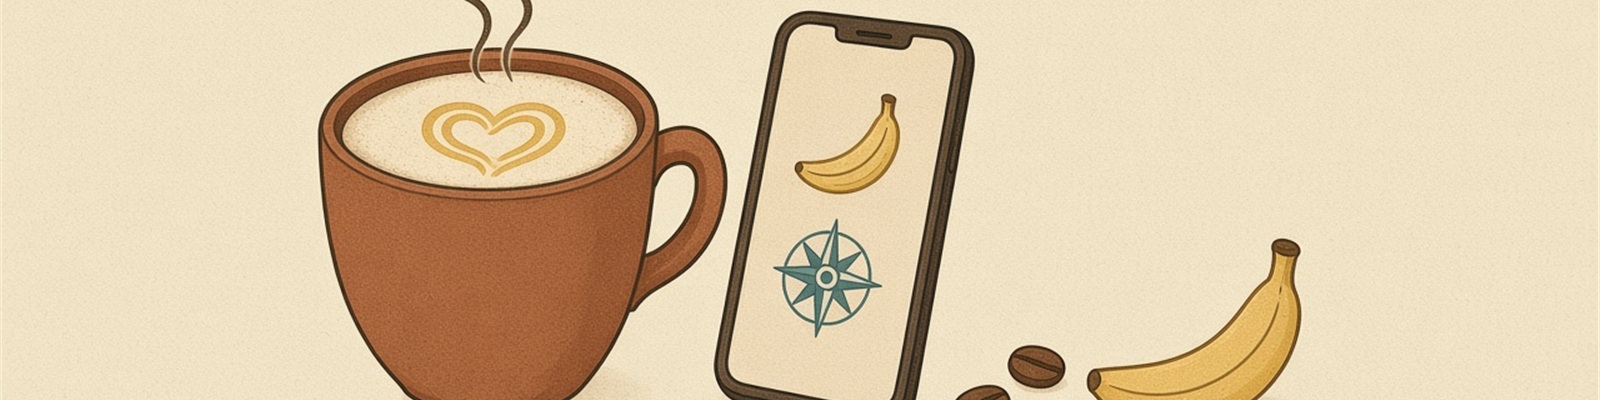
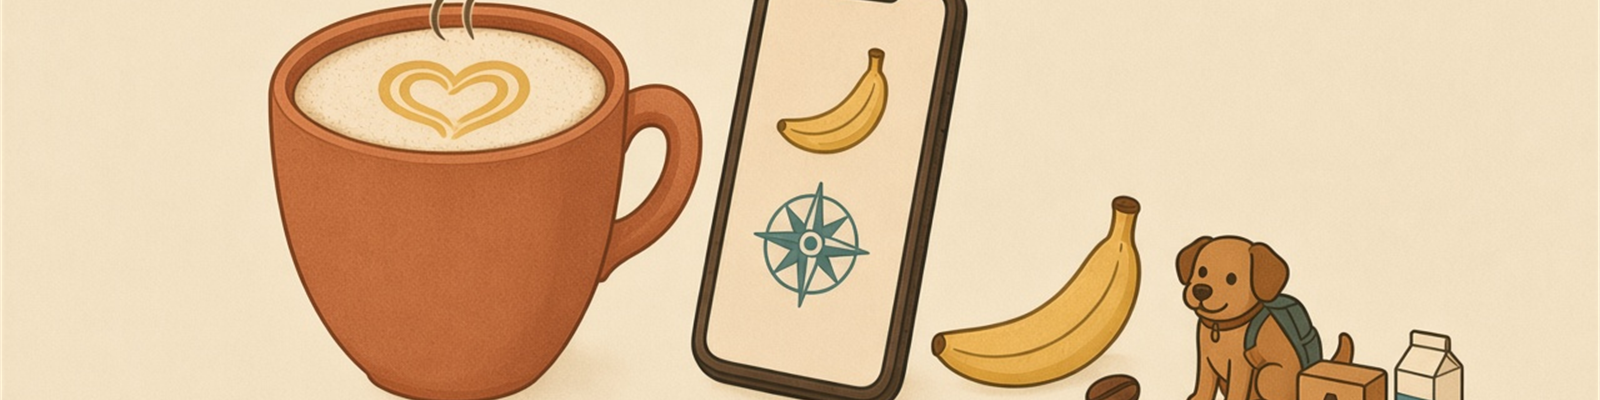
Add StoreAlfabet to the portal and refresh the Buy Me a Coffee cover.

Changed region(s): [[0.1562, 0.0, 0.9375, 1.0]]

diff --git a/assets/i18n.js b/assets/i18n.js
@@ -20,20 +20,26 @@ const translations = {
   no: {
     metaTitle: "Reidar Kind — hobbyapper",
     metaDescription:
-      "Oversikt over hobbyappene Bananmatte og FactHunter. Alt lagres på telefonen. Bruk på eget ansvar.",
+      "Oversikt over hobbyappene Bananmatte, StoreAlfabet og FactHunter. Alt lagres på telefonen. Bruk på eget ansvar.",
     skip: "Hopp til innhold",
     brand: "Reidar Kind",
     tagline: "Hobbyapper som bor på telefonen din.",
     langLabel: "Språk",
     appsTitle: "Appene",
     appsIntro:
-      "To apper så langt. Begge åpnes i nettleseren og kan legges på hjemskjermen. Ingen appbutikk, ingen konto.",
+      "Tre apper så langt. Alle åpnes i nettleseren og kan legges på hjemskjermen. Ingen appbutikk, ingen konto.",
     "bananmatte.name": "Bananmatte",
     "bananmatte.devices": "Nettbrett og telefon",
     "bananmatte.lead": "Gjør apestreker. Regn etterpå.",
     "bananmatte.body":
       "Matte- og fangstspill for 1. og 2. klasse. Du styrer en gorilla med kurv, fanger bananer og svarer på et mattespørsmål etter hver runde. Tiervenn, pluss, minus, ganging, deling og mer. Poeng og navn blir på enheten.",
     "bananmatte.cta": "Åpne Bananmatte",
+    "storealfabet.name": "StoreAlfabet",
+    "storealfabet.devices": "Telefon",
+    "storealfabet.lead": "Alf har forsovet seg!",
+    "storealfabet.body":
+      "Bokstavspill for 1. og 2. klasse. Du hjelper hunden Alf til skolen, øver på bokstaver, lyder, rim og små ord, samler krystaller og diamanter, og unngår tullete bokstavzombier. Målet er å rekke skolen og kjøpe skolemelk. Rekorder blir på telefonen.",
+    "storealfabet.cta": "Åpne StoreAlfabet",
     "facthunter.name": "FactHunter",
     "facthunter.devices": "Telefon",
     "facthunter.lead": "Speid kartet etter kunnskap i det fjerne.",
@@ -42,7 +48,7 @@ const translations = {
     "facthunter.cta": "Åpne FactHunter",
     madeTitle: "Slik er de laget",
     madeBody:
-      "Enkle webapper (PWA) som kjører i nettleseren og kan installeres på hjemskjermen. De er bygget med Vite og TypeScript og ligger på GitHub Pages. Ingen egen server, ingen innlogging. Bananmatte lagrer innstillinger og rekorder i localStorage. FactHunter lagrer samlingen i IndexedDB. FactHunter henter lesende oppslag fra Wikipedia; ingenting sendes til meg.",
+      "Enkle webapper (PWA) som kjører i nettleseren og kan installeres på hjemskjermen. De er bygget med Vite og TypeScript og ligger på GitHub Pages. Ingen egen server, ingen innlogging. Bananmatte og StoreAlfabet lagrer innstillinger og rekorder i localStorage. FactHunter lagrer samlingen i IndexedDB. FactHunter henter lesende oppslag fra Wikipedia; ingenting sendes til meg.",
     privacyTitle: "Personvern",
     privacyBody:
       "Alt som hører til deg, blir på telefonen. Ingen konto, ingen sky, ingen analyse og ingen sporing. Mister du telefonen, sletter nettstedsdata eller bytter nettleser uten eksport, er det som var lagret borte.",
@@ -58,20 +64,26 @@ const translations = {
   en: {
     metaTitle: "Reidar Kind — hobby apps",
     metaDescription:
-      "A portal to the hobby apps Bananmatte and FactHunter. Everything stays on your phone. Use at your own risk.",
+      "A portal to the hobby apps Bananmatte, StoreAlfabet and FactHunter. Everything stays on your phone. Use at your own risk.",
     skip: "Skip to content",
     brand: "Reidar Kind",
     tagline: "Hobby apps that live on your phone.",
     langLabel: "Language",
     appsTitle: "The apps",
     appsIntro:
-      "Two so far. Both open in the browser and can be added to your home screen. No app store, no account.",
+      "Three so far. All open in the browser and can be added to your home screen. No app store, no account.",
     "bananmatte.name": "Bananmatte",
     "bananmatte.devices": "Tablets and phones",
     "bananmatte.lead": "Monkey around. Then do the maths.",
     "bananmatte.body":
       "A catch-and-count game for years 1 and 2. Steer a gorilla with a basket, catch bananas, and answer a maths question after each round. Number bonds, plus, minus, times, divide, and more. Scores and names stay on the device.",
     "bananmatte.cta": "Open Bananmatte",
+    "storealfabet.name": "StoreAlfabet",
+    "storealfabet.devices": "Phones",
+    "storealfabet.lead": "Alf overslept!",
+    "storealfabet.body":
+      "A letter game for years 1 and 2. You help the dog Alf get to school, practise letters, sounds, rhymes and small words, collect crystals and diamonds, and dodge silly letter zombies. The goal is to reach school and buy school milk. Records stay on the phone.",
+    "storealfabet.cta": "Open StoreAlfabet",
     "facthunter.name": "FactHunter",
     "facthunter.devices": "Phones",
     "facthunter.lead": "Scout the map for knowledge in the distance.",
@@ -80,7 +92,7 @@ const translations = {
     "facthunter.cta": "Open FactHunter",
     madeTitle: "How they are made",
     madeBody:
-      "Simple web apps (PWAs) that run in the browser and can be installed on the home screen. They are built with Vite and TypeScript and hosted on GitHub Pages. No server of my own, no login. Bananmatte keeps settings and high scores in localStorage. FactHunter keeps the collection in IndexedDB. FactHunter only reads from Wikipedia; nothing is sent to me.",
+      "Simple web apps (PWAs) that run in the browser and can be installed on the home screen. They are built with Vite and TypeScript and hosted on GitHub Pages. No server of my own, no login. Bananmatte and StoreAlfabet keep settings and high scores in localStorage. FactHunter keeps the collection in IndexedDB. FactHunter only reads from Wikipedia; nothing is sent to me.",
     privacyTitle: "Privacy",
     privacyBody:
       "What is yours stays on the phone. No account, no cloud, no analytics, no tracking. If you lose the phone, clear site data, or switch browsers without an export, what was stored is gone.",
@@ -96,20 +108,26 @@ const translations = {
   de: {
     metaTitle: "Reidar Kind — Hobby-Apps",
     metaDescription:
-      "Überblick über die Hobby-Apps Bananmatte und FactHunter. Alles bleibt auf dem Telefon. Nutzung auf eigene Gefahr.",
+      "Überblick über die Hobby-Apps Bananmatte, StoreAlfabet und FactHunter. Alles bleibt auf dem Telefon. Nutzung auf eigene Gefahr.",
     skip: "Zum Inhalt springen",
     brand: "Reidar Kind",
     tagline: "Hobby-Apps, die auf deinem Telefon leben.",
     langLabel: "Sprache",
     appsTitle: "Die Apps",
     appsIntro:
-      "Zwei bisher. Beide öffnen sich im Browser und können auf den Startbildschirm. Kein App-Store, kein Konto.",
+      "Drei bisher. Alle öffnen sich im Browser und können auf den Startbildschirm. Kein App-Store, kein Konto.",
     "bananmatte.name": "Bananmatte",
     "bananmatte.devices": "Tablets und Telefone",
     "bananmatte.lead": "Affenstreiche machen. Danach rechnen.",
     "bananmatte.body":
       "Fang- und Rechenspiel für die 1. und 2. Klasse. Du steuerst einen Gorilla mit Korb, fängst Bananen und beantwortest nach jeder Runde eine Mathefrage. Zehnerfreunde, Plus, Minus, Mal, Geteilt und mehr. Punkte und Namen bleiben auf dem Gerät.",
     "bananmatte.cta": "Bananmatte öffnen",
+    "storealfabet.name": "StoreAlfabet",
+    "storealfabet.devices": "Telefone",
+    "storealfabet.lead": "Alf hat verschlafen!",
+    "storealfabet.body":
+      "Buchstabenspiel für die 1. und 2. Klasse. Du hilfst dem Hund Alf zur Schule, übst Buchstaben, Laute, Reime und kleine Wörter, sammelst Kristalle und Diamanten und weichst albernen Buchstaben-Zombies aus. Ziel ist die Schule und die Schulmilch. Rekorde bleiben auf dem Telefon.",
+    "storealfabet.cta": "StoreAlfabet öffnen",
     "facthunter.name": "FactHunter",
     "facthunter.devices": "Telefone",
     "facthunter.lead": "Spähe auf der Karte nach Wissen in der Ferne.",
@@ -118,7 +136,7 @@ const translations = {
     "facthunter.cta": "FactHunter öffnen",
     madeTitle: "So sind sie gemacht",
     madeBody:
-      "Einfache Web-Apps (PWA), die im Browser laufen und auf den Startbildschirm können. Gebaut mit Vite und TypeScript, bereitgestellt über GitHub Pages. Kein eigener Server, keine Anmeldung. Bananmatte speichert Einstellungen und Rekorde in localStorage. FactHunter speichert die Sammlung in IndexedDB. FactHunter liest nur von Wikipedia; nichts wird an mich gesendet.",
+      "Einfache Web-Apps (PWA), die im Browser laufen und auf den Startbildschirm können. Gebaut mit Vite und TypeScript, bereitgestellt über GitHub Pages. Kein eigener Server, keine Anmeldung. Bananmatte und StoreAlfabet speichern Einstellungen und Rekorde in localStorage. FactHunter speichert die Sammlung in IndexedDB. FactHunter liest nur von Wikipedia; nichts wird an mich gesendet.",
     privacyTitle: "Datenschutz",
     privacyBody:
       "Was dir gehört, bleibt auf dem Telefon. Kein Konto, keine Cloud, keine Analyse, keine Verfolgung. Verlierst du das Telefon, löschst Website-Daten oder wechselst den Browser ohne Export, ist das Gespeicherte weg.",
@@ -134,20 +152,26 @@ const translations = {
   es: {
     metaTitle: "Reidar Kind — apps de hobby",
     metaDescription:
-      "Portal de las apps de hobby Bananmatte y FactHunter. Todo se guarda en el teléfono. Úsalas bajo tu responsabilidad.",
+      "Portal de las apps de hobby Bananmatte, StoreAlfabet y FactHunter. Todo se guarda en el teléfono. Úsalas bajo tu responsabilidad.",
     skip: "Saltar al contenido",
     brand: "Reidar Kind",
     tagline: "Apps de hobby que viven en tu teléfono.",
     langLabel: "Idioma",
     appsTitle: "Las apps",
     appsIntro:
-      "Dos por ahora. Las dos se abren en el navegador y se pueden añadir a la pantalla de inicio. Sin tienda, sin cuenta.",
+      "Tres por ahora. Las tres se abren en el navegador y se pueden añadir a la pantalla de inicio. Sin tienda, sin cuenta.",
     "bananmatte.name": "Bananmatte",
     "bananmatte.devices": "Tabletas y teléfonos",
     "bananmatte.lead": "Haz travesuras. Luego calcula.",
     "bananmatte.body":
       "Juego de captura y mates para 1.º y 2.º. Diriges un gorila con cesta, cazas plátanos y respondes una pregunta de mates tras cada ronda. Complementos a diez, sumas, restas, multiplicar, dividir y más. Puntos y nombres se quedan en el aparato.",
     "bananmatte.cta": "Abrir Bananmatte",
+    "storealfabet.name": "StoreAlfabet",
+    "storealfabet.devices": "Teléfonos",
+    "storealfabet.lead": "¡Alf se ha quedado dormido!",
+    "storealfabet.body":
+      "Juego de letras para 1.º y 2.º. Ayudas al perro Alf a llegar al cole, practicas letras, sonidos, rimas y palabras cortas, recoges cristales y diamantes y esquivas zombis de letras un poco tontos. El objetivo es llegar y comprar la leche escolar. Los récords se quedan en el teléfono.",
+    "storealfabet.cta": "Abrir StoreAlfabet",
     "facthunter.name": "FactHunter",
     "facthunter.devices": "Teléfonos",
     "facthunter.lead": "Explora el mapa en busca de saber a lo lejos.",
@@ -156,7 +180,7 @@ const translations = {
     "facthunter.cta": "Abrir FactHunter",
     madeTitle: "Cómo están hechas",
     madeBody:
-      "Apps web sencillas (PWA) que corren en el navegador y se pueden instalar en la pantalla de inicio. Están hechas con Vite y TypeScript y alojadas en GitHub Pages. Sin servidor propio, sin inicio de sesión. Bananmatte guarda ajustes y récords en localStorage. FactHunter guarda la colección en IndexedDB. FactHunter solo lee de Wikipedia; no se me envía nada.",
+      "Apps web sencillas (PWA) que corren en el navegador y se pueden instalar en la pantalla de inicio. Están hechas con Vite y TypeScript y alojadas en GitHub Pages. Sin servidor propio, sin inicio de sesión. Bananmatte y StoreAlfabet guardan ajustes y récords en localStorage. FactHunter guarda la colección en IndexedDB. FactHunter solo lee de Wikipedia; no se me envía nada.",
     privacyTitle: "Privacidad",
     privacyBody:
       "Lo tuyo se queda en el teléfono. Sin cuenta, sin nube, sin analítica y sin rastreo. Si pierdes el teléfono, borras los datos del sitio o cambias de navegador sin exportar, lo guardado desaparece.",
@@ -172,20 +196,26 @@ const translations = {
   pt: {
     metaTitle: "Reidar Kind — apps de hobby",
     metaDescription:
-      "Portal das apps de hobby Bananmatte e FactHunter. Tudo fica no telemóvel. Use por sua conta e risco.",
+      "Portal das apps de hobby Bananmatte, StoreAlfabet e FactHunter. Tudo fica no telemóvel. Use por sua conta e risco.",
     skip: "Saltar para o conteúdo",
     brand: "Reidar Kind",
     tagline: "Apps de hobby que vivem no teu telemóvel.",
     langLabel: "Idioma",
     appsTitle: "As apps",
     appsIntro:
-      "Duas por agora. Ambas abrem no browser e podem ir para o ecrã inicial. Sem loja, sem conta.",
+      "Três por agora. Todas abrem no browser e podem ir para o ecrã inicial. Sem loja, sem conta.",
     "bananmatte.name": "Bananmatte",
     "bananmatte.devices": "Tablets e telemóveis",
     "bananmatte.lead": "Faz asneiras. Depois calcula.",
     "bananmatte.body":
       "Jogo de apanha e matemática para o 1.º e 2.º ano. Controlas um gorila com cesto, apanhas bananas e respondes a uma pergunta de matemática após cada ronda. Amigos do dez, mais, menos, vezes, divisão e mais. Pontos e nomes ficam no aparelho.",
     "bananmatte.cta": "Abrir Bananmatte",
+    "storealfabet.name": "StoreAlfabet",
+    "storealfabet.devices": "Telemóveis",
+    "storealfabet.lead": "O Alf dormiu a mais!",
+    "storealfabet.body":
+      "Jogo de letras para o 1.º e 2.º ano. Ajudas o cão Alf a chegar à escola, treinas letras, sons, rimas e palavras pequenas, apanhas cristais e diamantes e evitas zombies de letras um pouco parvos. O objetivo é chegar e comprar leite escolar. Os recordes ficam no telemóvel.",
+    "storealfabet.cta": "Abrir StoreAlfabet",
     "facthunter.name": "FactHunter",
     "facthunter.devices": "Telemóveis",
     "facthunter.lead": "Explora o mapa à procura de saber ao longe.",
@@ -194,7 +224,7 @@ const translations = {
     "facthunter.cta": "Abrir FactHunter",
     madeTitle: "Como são feitas",
     madeBody:
-      "Apps web simples (PWA) que correm no browser e se podem instalar no ecrã inicial. Feitas com Vite e TypeScript e alojadas no GitHub Pages. Sem servidor próprio, sem início de sessão. Bananmatte guarda definições e recordes em localStorage. FactHunter guarda a coleção em IndexedDB. FactHunter só lê da Wikipédia; nada me é enviado.",
+      "Apps web simples (PWA) que correm no browser e se podem instalar no ecrã inicial. Feitas com Vite e TypeScript e alojadas no GitHub Pages. Sem servidor próprio, sem início de sessão. Bananmatte e StoreAlfabet guardam definições e recordes em localStorage. FactHunter guarda a coleção em IndexedDB. FactHunter só lê da Wikipédia; nada me é enviado.",
     privacyTitle: "Privacidade",
     privacyBody:
       "O que é teu fica no telemóvel. Sem conta, sem nuvem, sem análise e sem rastreio. Se perderes o telemóvel, apagares os dados do sítio ou mudares de browser sem exportar, o que estava guardado desaparece.",

diff --git a/index.html b/index.html
@@ -6,14 +6,14 @@
     <title>Reidar Kind — hobbyapper</title>
     <meta
       name="description"
-      content="Oversikt over hobbyappene Bananmatte og FactHunter. Alt lagres på telefonen. Bruk på eget ansvar."
+      content="Oversikt over hobbyappene Bananmatte, StoreAlfabet og FactHunter. Alt lagres på telefonen. Bruk på eget ansvar."
     />
     <meta name="theme-color" content="#f3ead8" />
     <link rel="canonical" href="https://reidarkind.github.io/myapps/" />
     <meta property="og:title" content="Reidar Kind — hobbyapper" />
     <meta
       property="og:description"
-      content="Hobbyapper som bor på telefonen din. Bananmatte og FactHunter."
+      content="Hobbyapper som bor på telefonen din. Bananmatte, StoreAlfabet og FactHunter."
     />
     <meta property="og:type" content="website" />
     <meta property="og:url" content="https://reidarkind.github.io/myapps/" />
@@ -65,7 +65,7 @@
         <p class="eyebrow" data-i18n="appsTitle">Appene</p>
         <h1 data-i18n="tagline">Hobbyapper som bor på telefonen din.</h1>
         <p class="lede" data-i18n="appsIntro">
-          To apper så langt. Begge åpnes i nettleseren og kan legges på hjemskjermen. Ingen
+          Tre apper så langt. Alle åpnes i nettleseren og kan legges på hjemskjermen. Ingen
           appbutikk, ingen konto.
         </p>
       </section>
@@ -93,6 +93,28 @@
             bananer og svarer på et mattespørsmål etter hver runde.
           </p>
           <a class="btn btn-app" href="https://reidarkind.github.io/bananmatte/" data-i18n="bananmatte.cta">Åpne Bananmatte</a>
+        </article>
+
+
+        <article class="card">
+          <div class="card-top">
+            <img
+              class="card-icon"
+              src="https://reidarkind.github.io/storealfabet/ikon-192.png"
+              width="134"
+              height="134"
+              alt=""
+            />
+            <div>
+              <h3 data-i18n="storealfabet.name">StoreAlfabet</h3>
+              <span class="badge" data-i18n="storealfabet.devices">Telefon</span>
+            </div>
+          </div>
+          <p class="lead" data-i18n="storealfabet.lead">Alf har forsovet seg!</p>
+          <p data-i18n="storealfabet.body">
+            Bokstavspill for 1. og 2. klasse. Du hjelper hunden Alf til skolen.
+          </p>
+          <a class="btn btn-app" href="https://reidarkind.github.io/storealfabet/" data-i18n="storealfabet.cta">Åpne StoreAlfabet</a>
         </article>
 
         <article class="card">

diff --git a/assets/styles.css b/assets/styles.css
@@ -221,6 +221,12 @@ h2 {
   }
 }
 
+@media (min-width: 980px) {
+  .apps {
+    grid-template-columns: 1fr 1fr 1fr;
+  }
+}
+
 .card {
   display: flex;
   flex-direction: column;

diff --git a/README.md b/README.md
@@ -1,6 +1,6 @@
 # myapps
 
-Portal for hobbyappene [Bananmatte](https://reidarkind.github.io/bananmatte/) og [FactHunter](https://reidarkind.github.io/facthunter/).
+Portal for hobbyappene [Bananmatte](https://reidarkind.github.io/bananmatte/), [StoreAlfabet](https://reidarkind.github.io/storealfabet/) og [FactHunter](https://reidarkind.github.io/facthunter/).
 
 Live: [reidarkind.github.io/myapps](https://reidarkind.github.io/myapps/)
 
